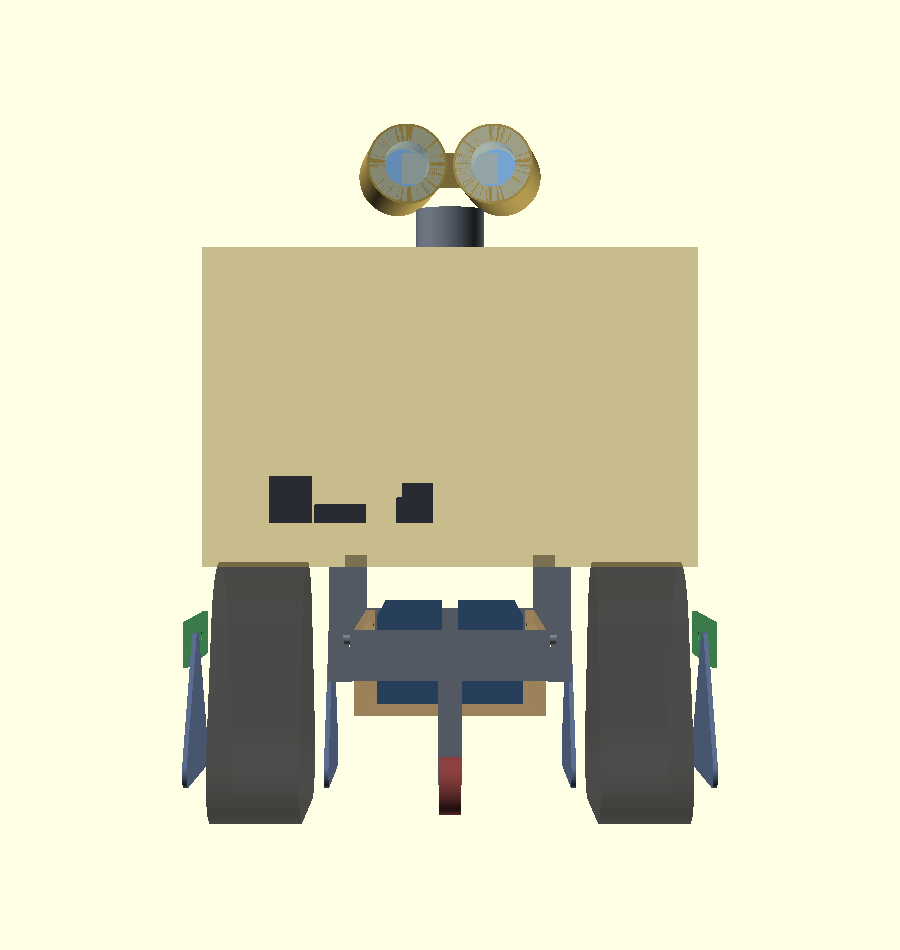
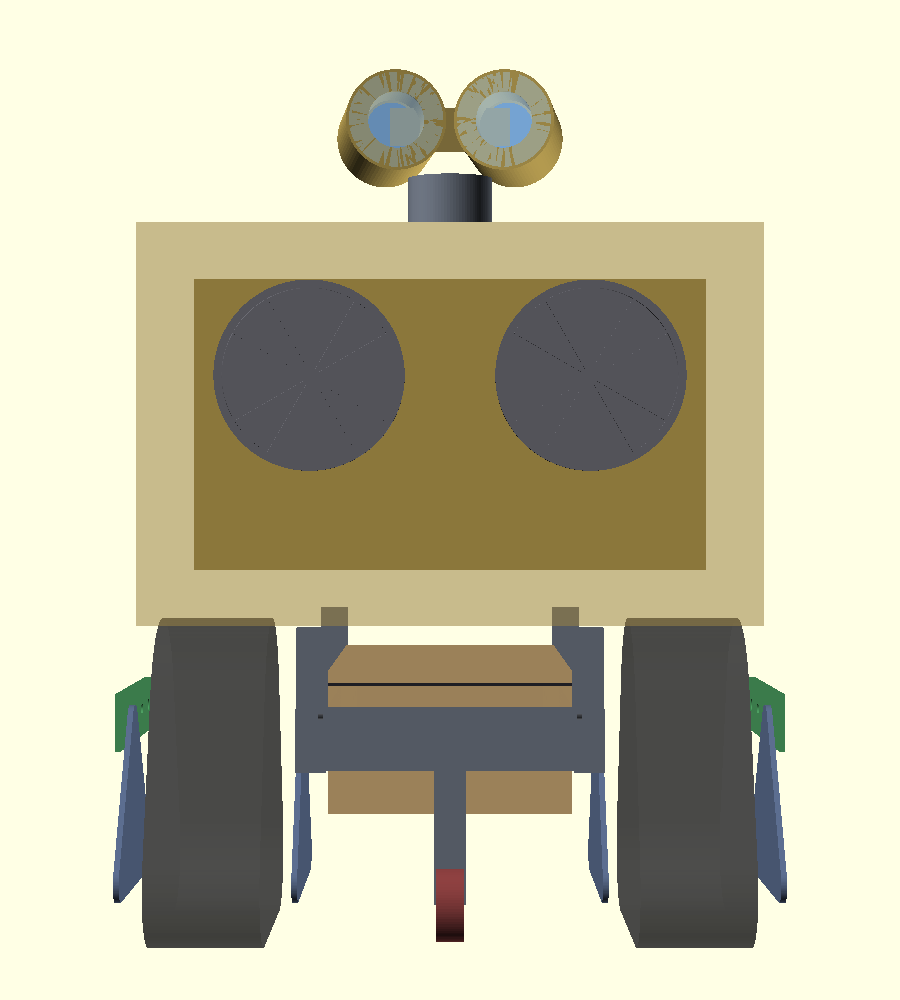
WALL-E: two 6.5 inch speakers in the chest, and the chest panel they mount to
Adding the speakers turned up a bug first. The chest recess is 20 mm deep into
a 12 mm wall, so it cut the front wall clean away and left a hole: you could
see the electronics through WALL-E's chest. A recessed panel has to BE a panel,
so there is now a real 12 mm plate set back 20 mm from the front face, and that
plate is the speaker baffle.

The drivers are Ø165 cutout, Ø190 rim, 50 mm deep, carried over from the
scooter build where they were measured. Their position is derived rather than
chosen: each enclosure has to clear the tallest shelf box by 20 mm and stay
under the body lid, and the driver then centres on what is left. That puts them
584 mm above the ground, 280 mm apart, which also happens to look right.

Each driver gets its own sealed 10.1 litre plywood enclosure. They do not fire
into the body, for two reasons that both bite. The body is not airtight — it
has a filtered intake, a removable lid and cable entries — so an open back
would chuff and lose all its bass. And 100 W of pressure swinging around the
electronics bay shakes every connector on the shelf. Grilles over both, because
a crowd will push a finger through an open cone.

Two things the model flagged that are worth having in writing. The enclosures
sit over 54 % of the electronics shelf, clearing it by 20 mm but shading it, so
they bolt to the chest panel rather than being glued in — otherwise half the
electronics is unreachable. And they cost 1.5 degrees of forward tipping margin:
[…]

diff --git a/WALL-E/docs/06-why-the-batteries-are-low.md b/WALL-E/docs/06-why-the-batteries-are-low.md
@@ -108,8 +108,11 @@ driving — the best-cooled spot on the machine, free.
 **The shelf cannot really take them.** A pack is 400 mm long and the shelf is
 only 356 mm deep, so they could not even lie fore-aft. Lying across the robot the
 two of them use 50 % of the shelf area on top of the 32 % the electronics already
-need. That is 83 % of the shelf, and what is left has to hold two 6.5 inch
-speakers and a clear air path.
+need. That is 83 % of the shelf, and what is left has to hold a clear air path
+past the Jetson and both VESCs. It will not.
+
+That figure has since got worse, not better: the two speaker enclosures now sit
+over 54 % of the shelf as well.
 
 **It is the worst place for a cell to fail.** A box under the frame vents
 downwards and away from everything. The same event on the electronics shelf
@@ -123,13 +126,23 @@ tipping instead of hurting it.
 
 | | Battery CoM | Robot CoM | Tips forward at |
 |---|---|---|---|
-| **As built** — packs in the frame | 217 mm | 332 mm | **19.2°** |
-| If moved to the body shelf | 399 mm | 364 mm | 17.6° |
+| **As built** — packs in the frame | 217 mm | 349 mm | **17.7°** |
+| If moved to the body shelf | 399 mm | 378 mm | 16.5° |
 
-Moving them up raises the centre of mass 32 mm and costs 1.6°. **That on its own
-is not a veto, and it is worth being honest about that** — the anti-tip castor
-catches the pitch at 12.3° either way, so the margin would go from 6.9° to 5.3°
-and still pass. Tipping is not the reason. The four points above are.
+Moving them up raises the centre of mass 29 mm and costs 1.3°. When this document
+was first written, that was not a veto on its own and it was worth saying so: the
+margin over the anti-tip castor would have gone from 6.9° to 5.3° and still passed
+comfortably.
+
+**The chest speakers have since spent most of that slack.** They added 7.4 kg at
+584 mm, both of them forward of centre, and took 1.5° off the forward tipping
+angle by themselves. The castor catches at 12.3°, so the margin is now 5.4° as
+built and would be **4.2°** with the packs in the body — against a guard minimum
+of 4°. It would still pass, but only just, and with nothing left for the next
+heavy thing.
+
+So tipping has gone from "not the reason" to "one of the reasons". The four points
+above are still the stronger ones.
 
 ---
 
@@ -140,26 +153,33 @@ and the lowest point becomes the rail bottoms at 197 mm. That is 47 mm of extra
 ground clearance, and on rutted sand it is a genuine gain.
 
 If clearance turns out to be the problem, **do not solve it by moving the packs
-into the body. Raise the box.** The pack top is at 272 mm and the pod belt crown
-above it is at 327, so there is unused headroom. The limit is not the crown — it
-is the M12 spanner holes in the side walls, which have to stay clear of the
-floor. That caps the floor at 190 mm. Checked against the model: at 190 the guard
-sits exactly on its minimum, and at 195 it fails.
+into the body. Raise the box.** There is unused headroom above it, because the
+thing that sets the body floor is the pod belt crown at 327 mm, not the box.
+
+**The limit is 173 mm, which is less than it first looks.** Closing the box cost
+some of the headroom: the lid and the foam pad added 20 mm to the top of the box,
+and the binding constraint moved. It is no longer the M12 spanner holes — it is
+the 20 mm of clearance the lid needs under the body floor, so you can get a
+spanner on the lid bolts at all. Checked against the model: at 173 that guard
+sits exactly on its minimum, and at 174 it fails.
 
 | | Ground clearance | Robot CoM | Tips forward at |
 |---|---|---|---|
-| Box floor at 150 (as built) | 150 mm | 332 mm | 19.2° |
-| Box floor at 190 (the limit) | **190 mm** | 340 mm | **18.8°** |
-| Packs in the body | 197 mm | 364 mm | 17.6° |
+| Box floor at 150 (as built) | 150 mm | 349 mm | 17.7° |
+| Box floor at 173 (the limit) | **173 mm** | 353 mm | **17.6°** |
+| Packs in the body | 197 mm | 378 mm | 16.5° |
 
-Raising the box buys 40 of the 47 mm for 0.4° instead of 1.6°, and none of the
-heat, access or failure-mode problems. Owner decision 2026-09-16: leave it at
-150 for now and revisit after the first drive on sand.
+So raising the box buys 23 mm of the 47 for almost nothing — 0.1° — while moving
+the packs into the body buys 47 mm for 1.3° and all the heat, access and
+failure-mode problems. Owner decision 2026-09-16: leave it at 150 for now and
+revisit after the first drive on sand.
 
-One consequence to design for if it does get raised: at a floor of 190 the side
-walls are only 60 mm of useful depth below the rail top, so the packs stand
-proud of the rails by more. The lid bolts then need blocks to land on rather than
-just the wall edges.
+Push past 173 and something worse happens than a failed guard. The box top starts
+to drive the **body** floor height instead of the belt crown, so the whole robot
+grows upward: at a floor of 190 the body rises 13 mm, the centre of mass goes to
+361, and you have spent 0.5° of tipping to gain clearance you partly gave back.
+If you ever need more than 173, raise it and drop `body_gap` in the same change,
+or lie the packs flat to get 30 mm back off the box height.
 
 ---
 
@@ -169,6 +189,9 @@ The box was open, which was a real fault, and it is now a closed box with a
 gasket, plugged spanner holes, a foam pad and a membrane vent in the lid. Charge
 through a sealed connector and do not open it in the field.
 
-Keep the packs low. Not because of the tipping, which is affordable, but because
-they need a sealed case wherever they go, and once that is true the body is the
-hottest, most crowded, and most dangerous place to put them.
+Keep the packs low. Mostly because they need a sealed case wherever they go, and
+once that is true the body is the hottest, most crowded and most dangerous place
+to put them — and now partly because of the tipping too, since the chest speakers
+have spent most of the margin that used to make the tipping argument optional.
+
+If ground clearance becomes the problem, raise the box floor towards 173 mm.

diff --git a/WALL-E/README.md b/WALL-E/README.md
@@ -90,7 +90,7 @@ WALL-E/
     main.py                  The 20 Hz control loop
     test_safety.py           Invariant checks. Runs with no dependencies
   cad/
-    walle_frame.scad         The whole robot. Parametric, with 33 guards
+    walle_frame.scad         The whole robot. Parametric, with 46 guards
     walle_robot_*.png        The robot with body and head
     walle_head.png           The eye barrels
     walle_shelf.png          The electronics layout, labelled
@@ -103,13 +103,14 @@ WALL-E/
 
 `cad/walle_frame.scad` is the whole robot: the frame, the two pods, the batteries, the body,
 the head and the electronics layout. Run it and it prints every dimension, the cut list, the
-tipping angles, and 33 checks that all have to pass.
+tipping angles, and 46 checks that all have to pass.
 
 ```bash
 openscad -o walle.stl -D 'render_mode="robot"'    cad/walle_frame.scad   # everything
 openscad -o steel.stl -D 'render_mode="frame"'    cad/walle_frame.scad   # steel only, for welding
 openscad -o cut.dxf   -D 'render_mode="plates"'   cad/walle_frame.scad   # plywood, flat
 openscad -o head.stl  -D 'render_mode="head"'     cad/walle_frame.scad   # the eye barrels
+openscad -o chest.stl -D 'render_mode="chest"'    cad/walle_frame.scad   # speakers + enclosures
 openscad -o sec.stl   -D 'render_mode="section"'  cad/walle_frame.scad   # cut open
 ```
 
@@ -128,20 +129,20 @@ wheels.
 | Body | 430 long × 620 wide × 400 tall, floor at 335 mm |
 | Rails | 60×30×3 box, 550 long, 240 mm clear between them |
 | Lowest point of the robot | 150 mm above the ground |
-| Whole robot, estimated | 91 kg — **every mass in the model is still a guess** |
-| Centre of mass | 332 mm above the ground, centred over the tracks |
-| Ground pressure | 0.167 kg/cm² over 546 cm² |
-| Tips forward at | 19.2° of pitch |
-| Anti-tip castor catches at | 12.3° — so it catches 6.9° before the robot goes over |
+| Whole robot, estimated | 100 kg — **every mass in the model is still a guess** |
+| Centre of mass | 349 mm up, and 4 mm forward of centre — the chest speakers |
+| Ground pressure | 0.184 kg/cm² over 546 cm² |
+| Tips forward at | 17.7° of pitch (backward 18.9°) |
+| Anti-tip castor catches at | 12.3° — so it catches 5.4° before the robot goes over |
 | Steel needed | 1580 mm of 60×30×3 box tube |
 
 **The pod comes off with two bolts per side.** The frame reuses the four M12 holes that are
 already drilled in the green plates, so no new holes go into the built pods.
 
 The tipping numbers are only as good as the mass guesses feeding them. Weigh a pod, weigh a
-pack, and put the real numbers in the model before trusting 19.2°.
+pack, and put the real numbers in the model before trusting 17.7°.
 
-### Three things the model settled
+### Four things the model settled
 
 **There is no room for electronics in the frame.** The interior is almost entirely battery:
 8 mm above the packs, 24 mm between them, 13 mm to the cross members. So everything moved
@@ -165,6 +166,37 @@ of the body and never come out in the field.
 
 Why the packs stay low rather than going in the body, with the numbers:
 [`docs/06-why-the-batteries-are-low.md`](docs/06-why-the-batteries-are-low.md).
+
+**The chest panel was a hole, not a panel.** `chest_d` recesses the chest 20 mm into a
+12 mm wall, so the recess cut the front wall clean away and you could see the electronics
+through WALL-E's chest. It is now a real 12 mm plate set back 20 mm — which is lucky,
+because that plate is exactly what the speakers needed to mount to.
+
+### The speakers
+
+Two 6.5 inch drivers in the chest panel, 280 mm apart, 584 mm above the ground. That is how
+WALL-E talks and plays music.
+
+![front view with the speakers](cad/walle_robot_front.png)
+
+**Each driver gets its own sealed plywood enclosure, 10.1 litres.** They do not fire into
+the body, and that is deliberate. The body is not airtight — it has a filtered air intake,
+a removable lid and cable entries — so an open back would chuff and lose all its bass. And
+100 W of pressure swinging around the electronics bay shakes every connector on the shelf.
+
+![the chest panel and the two sealed enclosures, from behind](cad/walle_chest.png)
+
+Two things the model flagged that are easy to miss:
+
+**The enclosures shade 54 % of the electronics shelf.** They clear it by 20 mm, so nothing
+clashes, but they sit above it. So they **bolt** to the chest panel — glue them in and
+half the electronics becomes unreachable.
+
+**They cost 1.5° of forward tipping margin.** 7.4 kg at 584 mm, and both of them forward of
+centre, which pulls the centre of mass 4 mm towards the direction the robot already tips.
+Forward tipping goes from 19.2° to 17.7°, and the castor still catches 5.4° before that.
+It passes, but it is the second thing to push that number down, so weigh the real parts
+before adding a third.
 
 ### The head
 

diff --git a/WALL-E/docs/00-plan.md b/WALL-E/docs/00-plan.md
@@ -123,7 +123,11 @@ follow from that:
 | L15 | **Batteries stay in the frame, not in the body** | Not for the tipping, which is affordable. They need a sealed case wherever they go, and once that is true the body is the hottest, most crowded and most dangerous place for them. `06-why-the-batteries-are-low.md` |
 | L16 | The battery box is a **closed, gasketed box** with a membrane vent in the lid | Owner, 2026-09-16: sand. It was a three-sided U hanging where the belts throw sand. Now six panels, plugged spanner holes, foam pad, lid vent |
 | L17 | Packs charge **in place** and never come out in the field | Every opening of a sealed box at a dusty event undoes the sealing. Charge lead out through a gland to a connector on the body, behind a dust cap |
-| L18 | Box floor stays at 150 mm for now | Raising it to 190 would buy 40 mm of ground clearance for 0.4° of tipping. Owner: revisit after the first drive on sand |
+| L18 | Box floor stays at 150 mm for now | Raising it to 173 — the limit, set by lid-bolt access under the body floor — would buy 23 mm of ground clearance for 0.1° of tipping. Owner: revisit after the first drive on sand |
+| L19 | **Two 6.5 inch drivers in the chest panel**, 280 mm apart, 584 mm up | Owner, 2026-09-16. Position is derived, not chosen: the enclosures have to clear the tallest shelf box and the body lid, and the driver centres on what is left |
+| L20 | Each driver gets its **own sealed 10.1 litre enclosure**. They do not fire into the body | The body is not airtight — filtered intake, removable lid, cable entries — so an open back would chuff and lose its bass. And 100 W of pressure in the electronics bay shakes every connector |
+| L21 | The enclosures **bolt** to the chest panel and lift out | They shade 54 % of the shelf. Glued in, half the electronics is unreachable |
+| L22 | Metal grilles over both drivers | A crowd will push a finger through an open cone |
 
 #### L7 — why we keep the short belts now
 
@@ -465,6 +469,8 @@ Ordered by how much damage each one does, not how likely it is.
 | R8b | Sand gets into the battery box | Grit between the cells and the box, chafed wiring, a short | L16: closed box, gasketed lid on 110 mm bolt pitch, silicone plugs in all four spanner holes. **Check the plugs are in every morning** — they are the weak point, and they point at the belts |
 | R8c | The sealed box breathes and pumps dust in through its worst leak | Slow, invisible version of R8b, and it defeats the gasket | Membrane vent in the lid, on the centreline over the gap between the packs, so the air has a clean path it does not have to find |
 | R8d | Charging in a sealed box has nowhere to put the heat | Packs age fast, or worse | About 12 W of loss at 5 A. Log the pack temperature through one full charge with the lid on, on the bench, before the event. If it climbs, charge with the body lid open or drop the current |
+| R10 | Forward tipping margin keeps getting eaten | The castor catches, the robot stops looking like it meant to | The speakers alone took 1.5°, leaving 5.4° over the castor. **Every new part forward of centre or high up spends this number.** Weigh the real pods, packs, body and speakers and put the measured figures in the model before adding anything else |
+| R11 | Speaker enclosures rattle or buzz at volume | Sounds broken, and it is the thing the crowd hears | Sealed boxes, braced, and the drivers bolted through with gasket tape. Test at full volume on the bench before the body goes on |
 | R9 | Printed sprocket softens in the sun | Drive failure | Check what the fitted ones are printed in. If PLA, reprint in ASA or nylon. Carry a spare |
 | R10 | Scope grows, especially the body | Nothing is finished | Section 9 cut list, agreed in advance |
 | R11 | Midburn vehicle rules not met | Cannot operate at the event | D5 this week, before the frame is welded |

diff --git a/WALL-E/docs/05-bom.md b/WALL-E/docs/05-bom.md
@@ -109,9 +109,24 @@ version may appear.
 | 2 | 2.1 inch round LCD, 480×480, QSPI (Waveshare) | 60 | Stock | 53 mm active area. The barrel in the CAD model is built around this size. |
 | 2 | Clear acrylic dome or lens, Ø99 | 20 | Stock | Dust seal and the glassy look. `cad/walle_frame.scad`. |
 | 4 | Metal-gear servo, 20 kg·cm | 60 | Stock | Head pan, head tilt, and one barrel tilt each. |
-| 1 | TPA3255 class-D amplifier board | 40 | Stock | Runs on the 32 V supply, not the pack. |
-| 2 | Full-range speaker, 6.5 inch | 70 | Stock | The Rev 012 deck already has the cutouts designed for these. |
+| 1 | TPA3255 class-D amplifier board | 40 | Stock | Runs on the 32 V supply, not the pack. `04-power-and-wiring.md` section 4. |
+| 2 | Full-range or coaxial speaker, 6.5 inch, **4 Ω** | 70 | Stock | One per amplifier channel. Ø165 cutout, Ø190 rim, 50 mm deep — the chest panel is drilled for exactly that. **Check the mounting depth on the one you buy**; over 200 mm and the enclosure has to grow. |
+| 2 | Speaker grille, Ø190, steel | 20 | Stock | Not optional. A crowd will push a finger through an open cone. |
+| — | 12 mm ply for the two enclosures, plus bracing | 25 | Stock | About 0.6 m². Sizes echoed by `cad/walle_frame.scad`. |
+| — | Gasket tape, acoustic wadding, M5 bolts for the drivers and the boxes | 20 | Stock | The boxes **bolt** to the chest panel — they shade 54 % of the shelf and have to lift out. |
 | — | LED strip, drivers, eye illumination | 120 | Stock | |
+
+### The speakers are not just an audio decision
+
+They are 7.4 kg, they sit 584 mm up, and both of them are forward of centre. That combination
+took **1.5° off the forward tipping margin** on its own, leaving 5.4° between going over and
+the anti-tip castor catching. See risk R10. Anything else you add high or forward spends the
+same number, so weigh the real parts before adding a third thing.
+
+The other thing worth knowing before you buy: **sensitivity matters more than power out here.**
+Outdoors there are no walls to reflect sound, so bass is largely hopeless whatever you do. A
+driver rated 3 dB higher in sensitivity is worth more than doubling the amplifier power. Pick
+on the sensitivity figure, not the "max watts" number on the box.
 
 ### Warning: two round screens is harder than it looks
 
